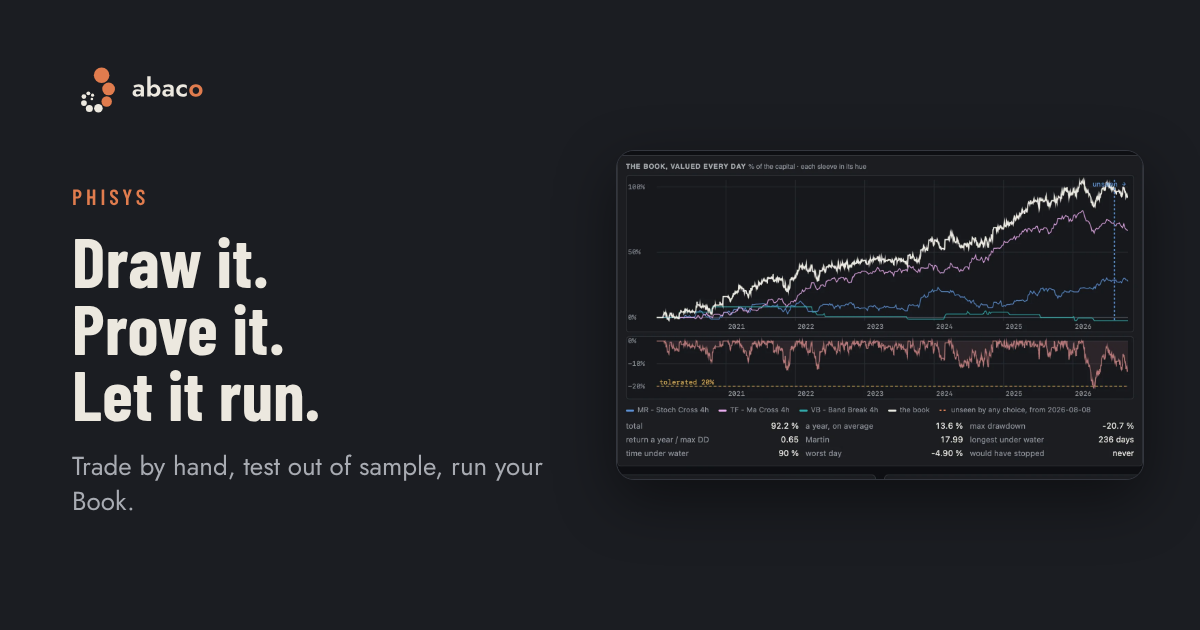
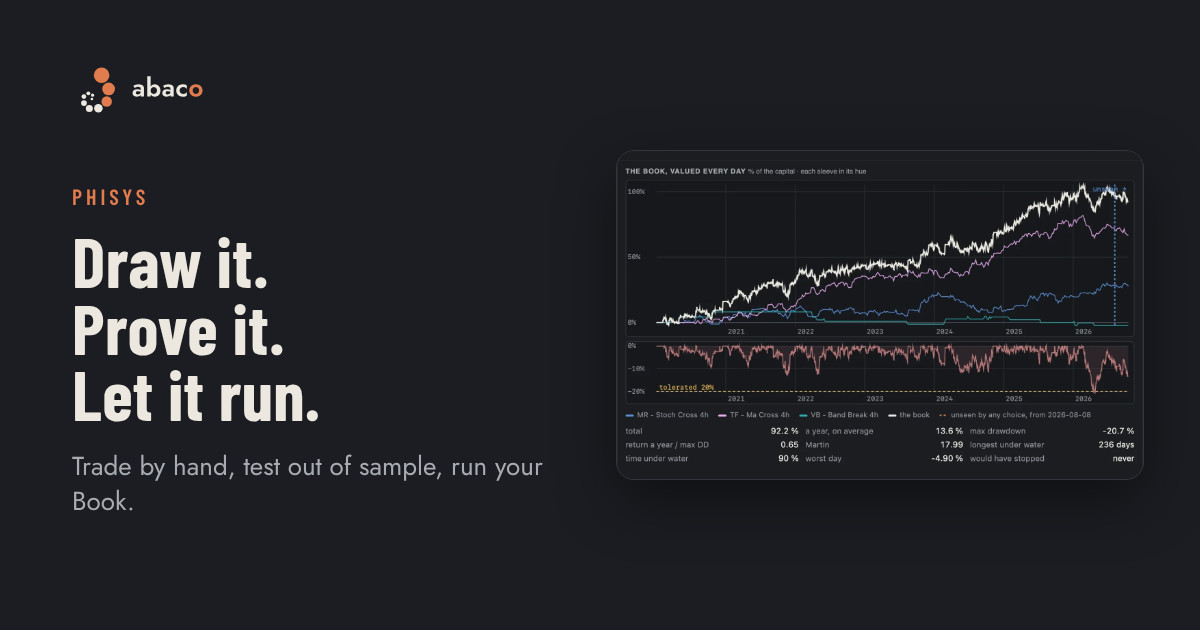
Book image: cut to its panel, no dark bands
Claude-Session: https://claude.ai/code/session_01PvRzho6i35K84RiJEfQJhD

diff --git a/phisys.html b/phisys.html
@@ -7,10 +7,10 @@
 <meta name="description" content="Phisys: trade by hand with a method, prove your rules out of sample with real costs, and let your Book run from your own Cloudflare account.">
 <meta property="og:title" content="Phisys · Abaco">
 <meta property="og:description" content="Phisys: trade by hand with a method, prove your rules out of sample with real costs, and let your Book run from your own Cloudflare account.">
-<meta property="og:image" content="https://abaco.phisys.app/img/og/phisys.png?v=2">
+<meta property="og:image" content="https://abaco.phisys.app/img/og/phisys.png?v=3">
 <meta property="og:image:width" content="1200">
 <meta property="og:image:height" content="630">
-<meta name="twitter:image" content="https://abaco.phisys.app/img/og/phisys.png?v=2">
+<meta name="twitter:image" content="https://abaco.phisys.app/img/og/phisys.png?v=3">
 <meta property="og:url" content="https://abaco.phisys.app/phisys.html">
 <meta name="twitter:card" content="summary_large_image">
 <meta name="twitter:site" content="@AbacoLab">
@@ -74,7 +74,7 @@
 <section class="sec" id="run" aria-labelledby="run-h">
   <div class="wrap">
     <div class="sec-head"><p class="eyebrow"><svg class="step" viewBox="0 0 48 12" aria-hidden="true"><path d="M1 6h46"/><circle cx="6" cy="6" r="3.3"/><circle cx="24" cy="6" r="3.3"/><circle cx="42" cy="6" r="3.3" class="on"/></svg>book · let it run</p><h2 id="run-h">Stop staring at charts</h2><p class="lede wide2">When a rule has held out of sample, its setup goes in your Book. The executor runs it round the clock from your own account, while you live your life.</p></div>
-    <div class="reel" role="list" aria-label="Book and executor in Phisys" tabindex="0"><figure><div class="shot has-img"><img src="img/phisys/book.webp" alt="Phisys: Book" loading="lazy" decoding="async"></div><figcaption><b>Book</b><span>Tested setups held together: 5, 8, 13 or no limit, by plan. One Book runs live at a time.</span></figcaption></figure><figure><div class="shot has-img"><img src="img/phisys/executor.webp" alt="Phisys: Executor" loading="lazy" decoding="async"></div><figcaption><b>Executor</b><span>Sends the Book's orders from your own Cloudflare account, day and night.</span></figcaption></figure><figure><div class="shot has-img"><img src="img/phisys/telegram.webp?v=5" alt="Phisys: Telegram when something needs you" loading="lazy" decoding="async"></div><figcaption><b>Telegram when something needs you</b><span>The executor down, a venue gone quiet, an order refused. Never signals.</span></figcaption></figure><figure><div class="shot has-img"><img src="img/phisys/stop-it.webp" alt="Phisys: Stop it from the page" loading="lazy" decoding="async"></div><figcaption><b>Stop it from the page</b><span>At any moment, with one click.</span></figcaption></figure><figure><div class="shot has-img"><img src="img/phisys/screener.webp" alt="Phisys: Screener" loading="lazy" decoding="async"></div><figcaption><b>Screener</b><span>Alerts on a whole watchlist.</span></figcaption></figure></div>
+    <div class="reel" role="list" aria-label="Book and executor in Phisys" tabindex="0"><figure><div class="shot has-img"><img src="img/phisys/book.webp?v=2" alt="Phisys: Book" loading="lazy" decoding="async"></div><figcaption><b>Book</b><span>Tested setups held together: 5, 8, 13 or no limit, by plan. One Book runs live at a time.</span></figcaption></figure><figure><div class="shot has-img"><img src="img/phisys/executor.webp" alt="Phisys: Executor" loading="lazy" decoding="async"></div><figcaption><b>Executor</b><span>Sends the Book's orders from your own Cloudflare account, day and night.</span></figcaption></figure><figure><div class="shot has-img"><img src="img/phisys/telegram.webp?v=5" alt="Phisys: Telegram when something needs you" loading="lazy" decoding="async"></div><figcaption><b>Telegram when something needs you</b><span>The executor down, a venue gone quiet, an order refused. Never signals.</span></figcaption></figure><figure><div class="shot has-img"><img src="img/phisys/stop-it.webp" alt="Phisys: Stop it from the page" loading="lazy" decoding="async"></div><figcaption><b>Stop it from the page</b><span>At any moment, with one click.</span></figcaption></figure><figure><div class="shot has-img"><img src="img/phisys/screener.webp" alt="Phisys: Screener" loading="lazy" decoding="async"></div><figcaption><b>Screener</b><span>Alerts on a whole watchlist.</span></figcaption></figure></div>
     <div style="margin-top:clamp(56px,7vw,96px)"><article class="block">
       <div class="art"><svg class="anim" viewBox="0 0 220 220" aria-hidden="true" focusable="false"><circle class="s-line" cx="110" cy="110" r="86"/><circle class="f-fg" cx="110.00" cy="24.00" r="4"/><circle class="f-b3" cx="132.26" cy="26.93" r="2.4"/><circle class="f-b3" cx="153.00" cy="35.52" r="2.4"/><circle class="f-b3" cx="170.81" cy="49.19" r="2.4"/><circle class="f-b3" cx="184.48" cy="67.00" r="2.4"/><circle class="f-b3" cx="193.07" cy="87.74" r="2.4"/><circle class="f-fg" cx="196.00" cy="110.00" r="4"/><circle class="f-b3" cx="193.07" cy="132.26" r="2.4"/><circle class="f-b3" cx="184.48" cy="153.00" r="2.4"/><circle class="f-b3" cx="170.81" cy="170.81" r="2.4"/><circle class="f-b3" cx="153.00" cy="184.48" r="2.4"/><circle class="f-b3" cx="132.26" cy="193.07" r="2.4"/><circle class="f-fg" cx="110.00" cy="196.00" r="4"/><circle class="f-b3" cx="87.74" cy="193.07" r="2.4"/><circle class="f-b3" cx="67.00" cy="184.48" r="2.4"/><circle class="f-b3" cx="49.19" cy="170.81" r="2.4"/><circle class="f-b3" cx="35.52" cy="153.00" r="2.4"/><circle class="f-b3" cx="26.93" cy="132.26" r="2.4"/><circle class="f-fg" cx="24.00" cy="110.00" r="4"/><circle class="f-b3" cx="26.93" cy="87.74" r="2.4"/><circle class="f-b3" cx="35.52" cy="67.00" r="2.4"/><circle class="f-b3" cx="49.19" cy="49.19" r="2.4"/><circle class="f-b3" cx="67.00" cy="35.52" r="2.4"/><circle class="f-b3" cx="87.74" cy="26.93" r="2.4"/><g class="a-orbit"><circle class="f-cu" cx="110" cy="24" r="7.5"/></g><text class="cl-t" x="110" y="120" text-anchor="middle">24h</text><text class="cl-s" x="110" y="143" text-anchor="middle">YOUR BOOK</text></svg></div>
       <div class="body">
